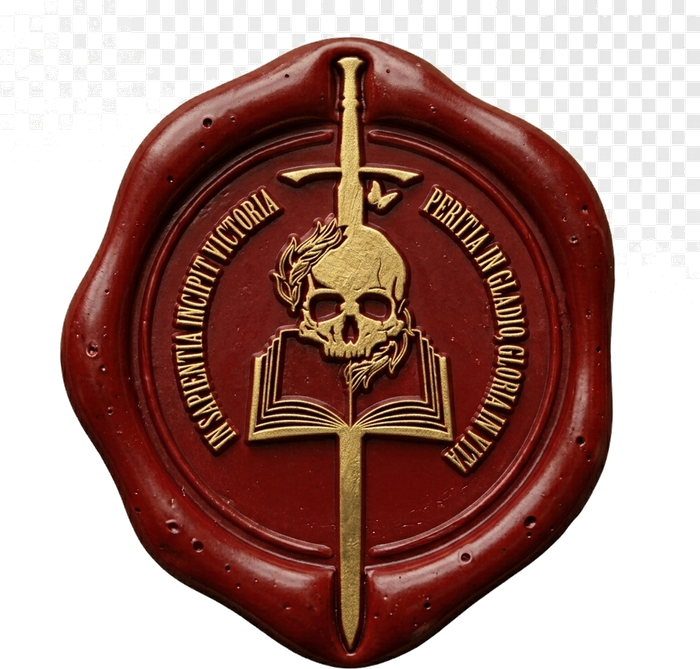
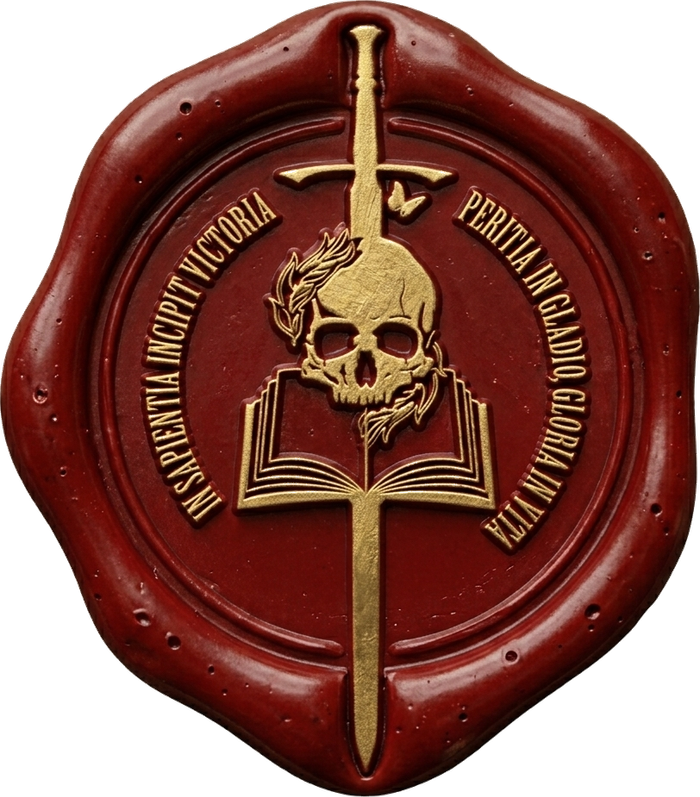
Add files via upload

diff --git a/assets/css/style.css b/assets/css/style.css
@@ -97,8 +97,8 @@ p{ margin:0 0 1em; color:var(--gray); }
 }
 .hero-text{ flex:1 1 auto; }
 .hero-logo{
-  width:clamp(90px,9vw,130px); height:auto; flex-shrink:0;
-  filter:drop-shadow(0 4px 14px rgba(0,0,0,.25));
+  width:clamp(150px,15vw,230px); height:auto; flex-shrink:0;
+  filter:drop-shadow(0 6px 20px rgba(0,0,0,.3));
 }
 .hero .eyebrow{ color:var(--wax); }
 .hero h1{ color:#1a1509; }
@@ -106,6 +106,7 @@ p{ margin:0 0 1em; color:var(--gray); }
 .hero-actions{ display:flex; gap:1rem; flex-wrap:wrap; }
 @media (max-width:780px){
   .hero-content{ flex-direction:column-reverse; text-align:center; }
+  .hero-actions{ justify-content:center; }
 }
 
 /* ===== Qué es HEMA (foto + texto) ===== */

diff --git a/index.html b/index.html
@@ -40,7 +40,7 @@
     <div class="hero-content reveal">
       <div class="hero-text">
         <span class="eyebrow">Mendoza, Argentina</span>
-        <h1>Aprendé el arte<br>de la espada.</h1>
+        <h1>Aprendé el arte<br>de la espada</h1>
         <p class="lead">Artes Marciales Históricas Europeas (HEMA) en Mendoza.</p>
         <div class="hero-actions">
           <a href="https://wa.me/5492613629978?text=Hola%21%20Quiero%20probar%20una%20clase%20en%20Freifechter%20Mendoza." target="_blank" rel="noopener" class="btn solid">Probar una clase</a>